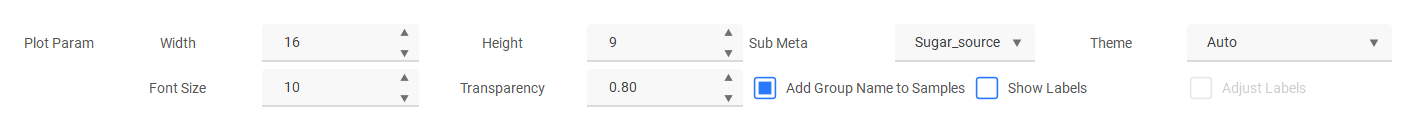
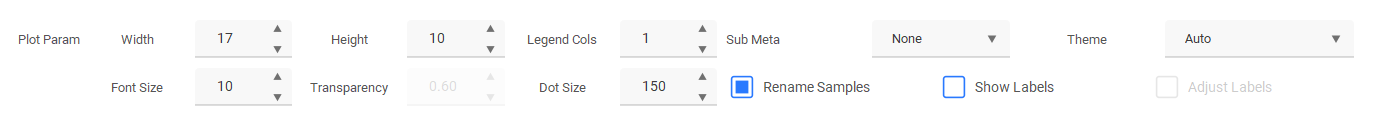
- Change: Changed the default color in basic plot part, make the color follow the theme.

diff --git a/utils/TaxaFuncPloter/basic_plot.py b/utils/TaxaFuncPloter/basic_plot.py
@@ -288,8 +288,8 @@ class BasicPlot:
             distinct_colors = self.get_distinct_colors(len(unique_groups))
             color_palette = dict(zip(unique_groups, distinct_colors))
         else:
-            color_palette = dict(zip(unique_groups, sns.color_palette("tab10", len(unique_groups))))
-
+            # color_palette = dict(zip(unique_groups, sns.color_palette("deep", len(unique_groups))))
+            color_palette = None
 
         # set style
         if theme is not None and theme != 'Auto':
@@ -300,8 +300,15 @@ class BasicPlot:
 
         # set size
         plt.figure(figsize=(width, height))
-        ax = sns.boxplot(data=df, x='Sample' if plot_samples else 'Group', y='Intensity', hue='Group' if sub_meta in ['None', None] or plot_samples else 'SubGroup',
-                        palette=color_palette, showfliers=show_fliers)
+        ax = sns.boxplot(
+            data=df,
+            x="Sample" if plot_samples else "Group",
+            y="Intensity",
+            hue="Group" if sub_meta in ["None", None] or plot_samples else "SubGroup",
+            palette=color_palette,
+            showfliers=show_fliers,
+            legend=True,
+        )
         # set x label
         x_labels = ax.get_xticklabels()
         if rename_sample and plot_samples:
@@ -320,9 +327,9 @@ class BasicPlot:
         
         if legend_col_num != 0:
             # set legend for group, out of the box
-            handles = [plt.Rectangle((0,0),1,1, color=color_palette[group], edgecolor='black') for group in unique_groups]
-            ax.legend(handles, unique_groups, title='Group', title_fontsize=font_size, fontsize=font_size +2,borderaxespad=0.,
-                    loc='upper left', bbox_to_anchor=(1.02, 1), ncol= len(unique_groups)//30 + 1 if legend_col_num is None else legend_col_num)
+            plt.legend(bbox_to_anchor=(1.02, 1), loc='upper left', borderaxespad=0., 
+                               fontsize=font_size+2, ncol= (unique_groups//30 + 1 ) if legend_col_num is None else legend_col_num)
+            
         else:
             #hide the legend
             ax.legend([],[], frameon=False)
@@ -478,8 +485,8 @@ class BasicPlot:
             distinct_colors = self.get_distinct_colors(len(unique_groups))
             color_palette = dict(zip(unique_groups, distinct_colors))
         else:
-            color_palette = dict(zip(unique_groups, sns.color_palette("tab10", len(unique_groups))))
-
+            # color_palette = dict(zip(unique_groups, sns.color_palette("deep", len(unique_groups))))
+            color_palette = None
 
 
         # set style

diff --git a/utils/version.py b/utils/version.py
@@ -1,1 +1,1 @@
-__version__ = '1.102.9'
+__version__ = '1.102.10'

diff --git a/ChangeLog.md b/ChangeLog.md
@@ -543,3 +543,8 @@
 ### Changes:
 - Fix: Fixed the bug of when plot the bar plot of number, the sub meta was not correct.
 - Fix: Fixed the bug of when plot the box plot, the sub meta didn't work.
+
+# Version: 1.102.10
+## Date: 2024-04-18
+### Changes:
+- Change: Changed the default color in basic plot part, make the color follow the theme.
